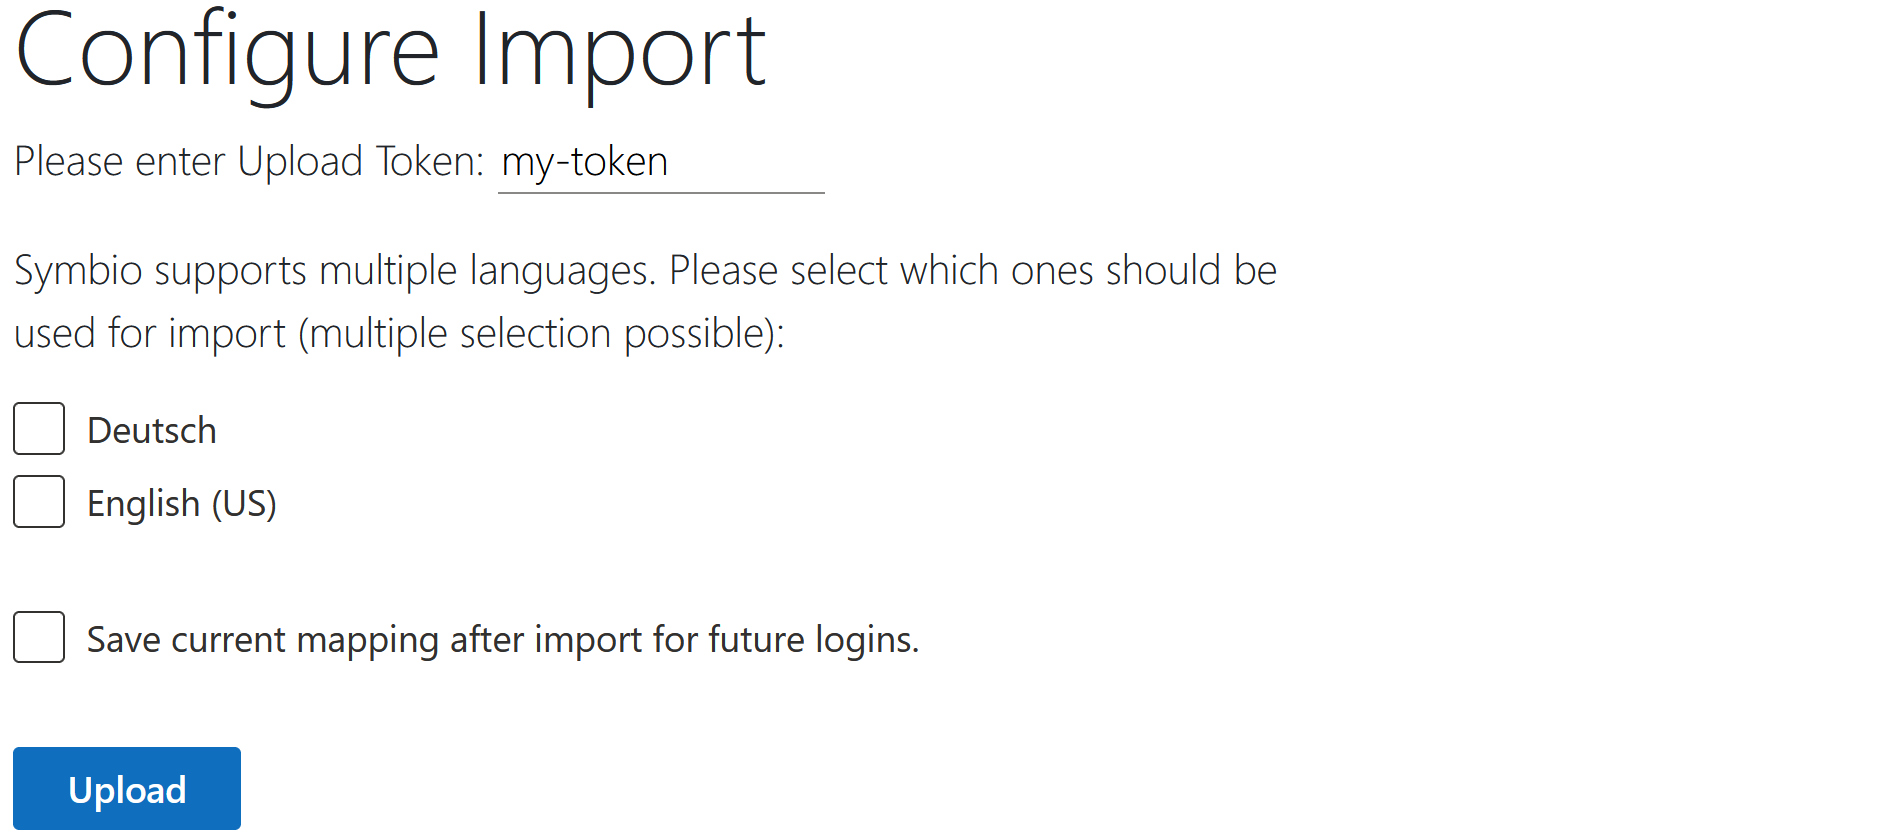
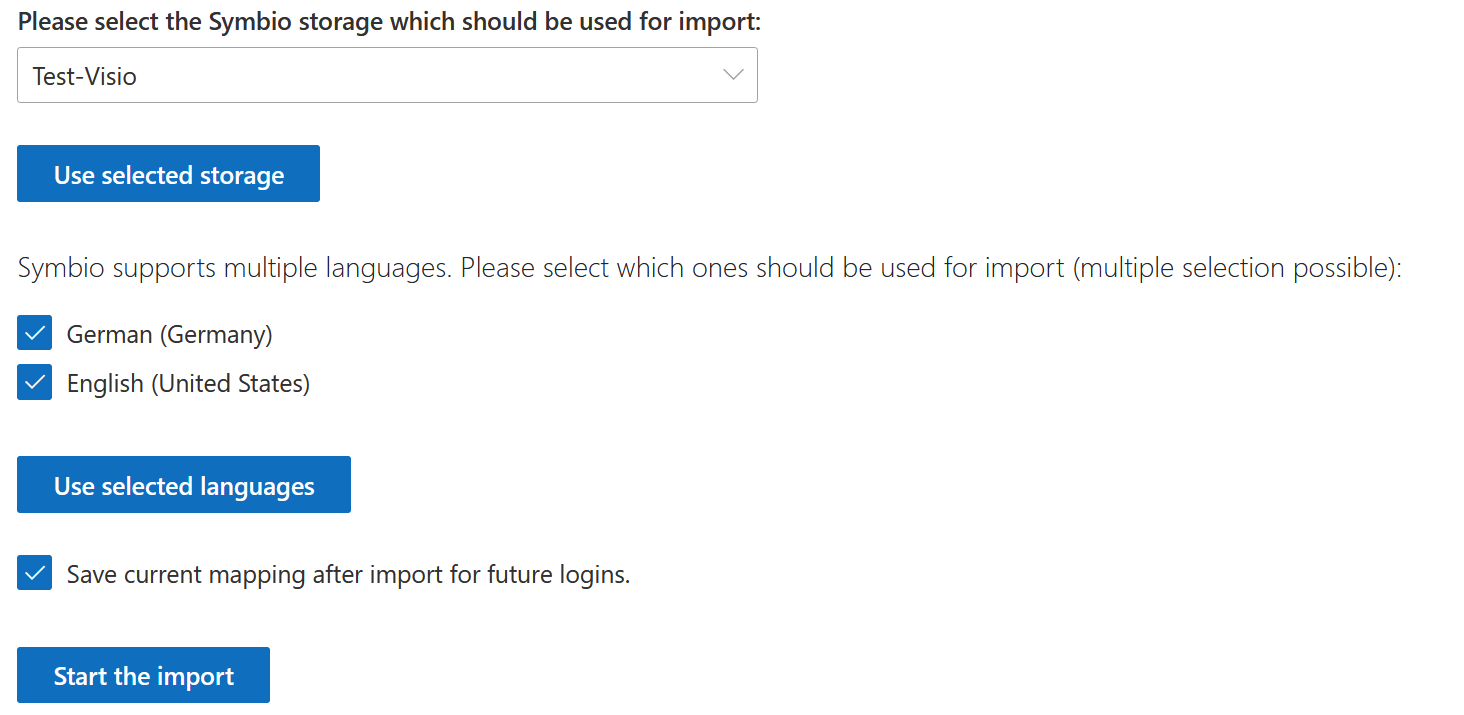
Update the documentation for the Visio service (#251)
* Remove the Visio service setup documentation

The new method is described in an entry in the Wiki

* Update the documentation for the Visio service import page

diff --git a/docs/admin/services/visio-importer/usage.md b/docs/admin/services/visio-importer/usage.md
@@ -38,10 +38,8 @@ If any connections are missing or elements do not appear, check the original Vis
 
 ## Step 4: Import
 
-Start by entering the import token provided to you by your Symbio administrator and click "**Upload**". You can choose to save the mapping by checking the checkbox above the upload button. That mapping will then be tied to your account and suggested the next time you map.
-
-Once you started the upload the importer will load a selection of languages your Symbio instance uses. Select the languages for which you want the importer to add descriptions and titles. For languages not selected, the importer will insert the default names (e.g. "Task"). At least one language must be selected.
+Start by selecting the Symbio storage you want to import into and click "**Use selected storage**". The page will then load and present the languages your Symbio storage uses. Select the languages for which you want the importer to add descriptions and titles. For languages not selected, Symbio will insert the default names (e.g. "Task"). At least one language must be selected. After selecting the languages you want to use, click "**Use selected languages**". Finally, before starting the actual import, you can choose to save the mapping by checking the checkbox above the upload button. That mapping will then be tied to your account and suggested the next time you map.
 
 ![import](media/import.png)
 
-After selecting the language press "**Upload**" once again and the Visio files will be imported. You can close the page (there is no need to log out) and view your processes in Symbio now. In case you want to import further Visio files, use the "**Reset**" button in the bottom left to return to the first page and start the import process anew.
+Press "**Start the import**" to start the import of the Visio files. Once the page says that the import was successful, you can close the page (there is no need to log out) and view your processes in Symbio. In case you want to import further Visio files, use the "**Reset**" button in the bottom left to return to the first page and start the import process anew.
